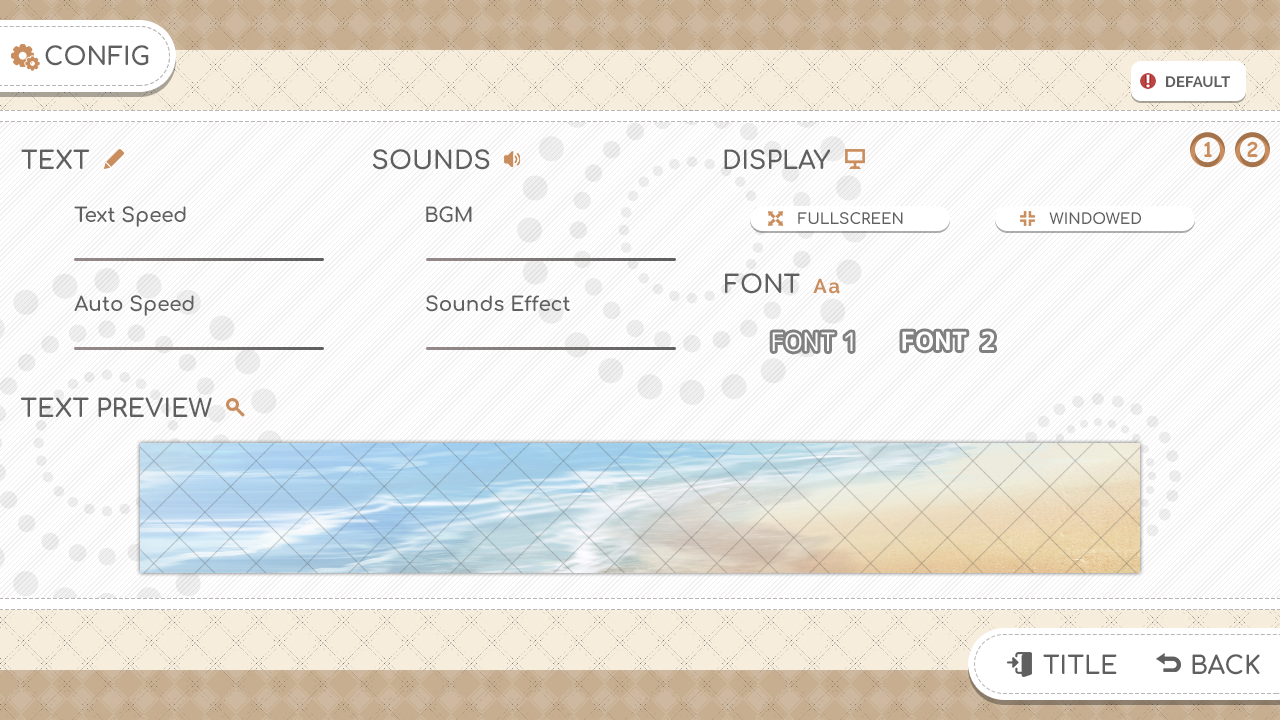
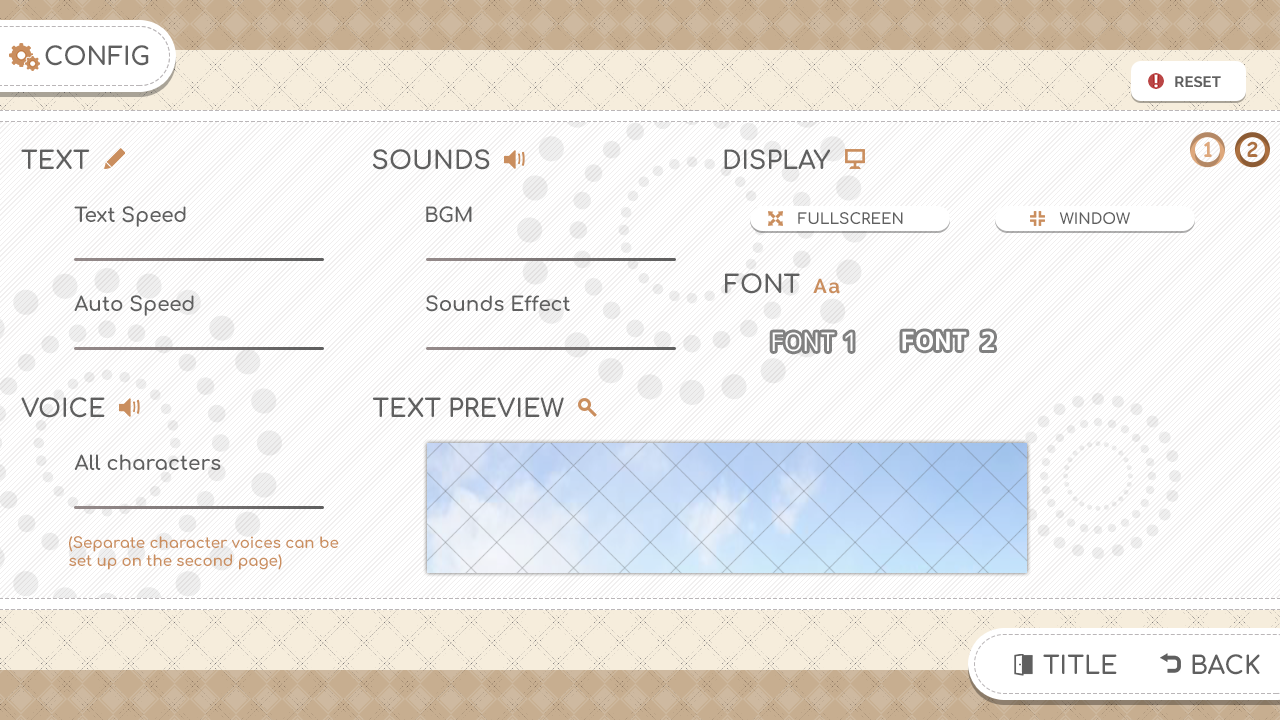
Add per-character volumes

diff --git a/readme-jp.html b/readme-jp.html
@@ -43,7 +43,7 @@
 </head>
 <body>
 
-<h1>Suika 2.10.3</h1>
+<h1>Suika 2.10.5</h1>
 <p>Copyright (C) 2001-2022 LUXION SOFT. All rights reserved.</p>
 
 <h2>このソフトについて</h2>
@@ -89,7 +89,6 @@
   <li>活発に開発していますので、何でも連絡してくださるとうれしいです</li>
   <li>メール <a href="mailto:tabata@luxion.jp">tabata@luxion.jp</a> (Gmailから返信しますのでご承知おきください)</li>
   <li>Webサイト <a href="https://suika2.com/">https://suika2.com/</a></li>
-  <li>掲示板 <a href="https://luxion.jp/f/f/suika2-keijiban/">https://luxion.jp/f/f/suika2-keijiban/</a></li>
 </ul>
 
 <h2>インストール/アンインストール</h2>
@@ -168,6 +167,16 @@
 
 <h2>変更履歴</h2>
 <ul>
+  <li>Suika 2.10.5 2022/8/5
+    <ul>
+			<li>Macで画面が赤くちらつく問題を修正 (Thanks to Kyo)</li>
+		</ul>
+  </li>
+  <li>Suika 2.10.4 2022/8/3
+    <ul>
+			<li>クラッシュするバグを修正 (Thanks to Kyo, MaiMai-san)</li>
+		</ul>
+  </li>
   <li>Suika 2.10.3 2022/7/31
     <ul>
 			<li>クイックロードのバグを修正 (Thanks to Max)</li>

diff --git a/readme-en.html b/readme-en.html
@@ -42,7 +42,7 @@
 </head>
 <body>
 
-<h1>Suika 2.10.3</h1>
+<h1>Suika 2.10.5</h1>
 <p>Copyright (C) 2001-2022 LUXION SOFT. All rights reserved.</p>
 
 <h2>About Suika2</h2>
@@ -149,6 +149,16 @@ You can enjoy producing impressive visual novels using Suika2.
 
 <h2>Release History</h2>
 <ul>
+  <li>Suika 2.10.5 5th August 2022
+    <ul>
+			<li>Fix red flicker on Mac (Thanks to Kyo)</li>
+		</ul>
+  </li>
+  <li>Suika 2.10.4 3rd August 2022
+    <ul>
+			<li>Fix crash (Thanks to Kyo, MaiMai-san)</li>
+		</ul>
+  </li>
   <li>Suika 2.10.3 31th July 2022
     <ul>
 			<li>Fix quick load bug (Thanks to Max)</li>

diff --git a/build/web-kit/readme-en.html b/build/web-kit/readme-en.html
@@ -44,7 +44,7 @@
 <body>
 
 <h1>Suika2 for Web Browsers Distribution Kit</h1>
-<p>Rev.40 (Supports Suika 2.10.2)</p>
+<p>Rev.43 (Supports Suika 2.10.5)</p>
 <p>Copyright (C) 2001-2022 LUXION SOFT. All rights reserved.</p>
 
 <h2>About this kit</h2>
@@ -103,6 +103,16 @@
 
 <h2>Revisions</h2>
 <ul>
+  <li>Rev.43 5th August 2022
+    <ul>
+      <li>Support Suika 2.10.5</li>
+    </ul>
+  </li>
+  <li>Rev.42 3rd August 2022
+    <ul>
+      <li>Support Suika 2.10.4</li>
+    </ul>
+  </li>
   <li>Rev.41 31th July 2022
     <ul>
       <li>Support Suika 2.10.3</li>

diff --git a/build/web-kit/readme-jp.html b/build/web-kit/readme-jp.html
@@ -44,7 +44,7 @@
 <body>
 
 <h1>Suika2 Webブラウザ版 配布キット</h1>
-<p>Rev.40 (Suika 2.10.2対応)</p>
+<p>Rev.43 (Suika 2.10.5対応)</p>
 <p>Copyright (C) 2001-2022 LUXION SOFT. All rights reserved.</p>
 
 <h2>このキットについて</h2>
@@ -100,6 +100,16 @@
 
 <h2>変更履歴</h2>
 <ul>
+  <li>Rev.43 2022/8/5
+    <ul>
+      <li>Suika 2.10.5に対応</li>
+    </ul>
+  </li>
+  <li>Rev.42 2022/8/3
+    <ul>
+      <li>Suika 2.10.4に対応</li>
+    </ul>
+  </li>
   <li>Rev.41 2022/7/31
     <ul>
       <li>Suika 2.10.3に対応</li>

diff --git a/src/cmd_message.c b/src/cmd_message.c
@@ -24,39 +24,42 @@
 #define ASSERT_INVALID_BTN_INDEX (0)
 
 /* Unicodeコードポイント */
-#define CHAR_SPACE	(0x0020)
-#define CHAR_COMMA 	(0x002c)
-#define CHAR_PERIOD	(0x002e)
-#define CHAR_COLON	(0x003a)
-#define CHAR_SEMICOLON  (0x003b)
-#define CHAR_TOUTEN	(0x3001)
-#define CHAR_KUTEN	(0x3002)
-#define CHAR_BACKSLASH	(0x005c)
-#define CHAR_YENSIGN	(0x00a5)
-#define CHAR_SMALLN	(0x006e)
+#define CHAR_SPACE		(0x0020)
+#define CHAR_COMMA 		(0x002c)
+#define CHAR_PERIOD		(0x002e)
+#define CHAR_COLON		(0x003a)
+#define CHAR_SEMICOLON  	(0x003b)
+#define CHAR_TOUTEN		(0x3001)
+#define CHAR_KUTEN		(0x3002)
+#define CHAR_BACKSLASH		(0x005c)
+#define CHAR_YENSIGN		(0x00a5)
+#define CHAR_SMALLN		(0x006e)
 
 /* メッセージボックスボタンのインデックス */
-#define BTN_NONE	(-1)
-#define BTN_QSAVE	(0)
-#define BTN_QLOAD	(1)
-#define BTN_SAVE	(2)
-#define BTN_LOAD	(3)
-#define BTN_AUTO	(4)
-#define BTN_SKIP	(5)
-#define BTN_HISTORY	(6)
-#define BTN_CONFIG	(7)
-#define BTN_HIDE	(8)
+#define BTN_NONE		(-1)
+#define BTN_QSAVE		(0)
+#define BTN_QLOAD		(1)
+#define BTN_SAVE		(2)
+#define BTN_LOAD		(3)
+#define BTN_AUTO		(4)
+#define BTN_SKIP		(5)
+#define BTN_HISTORY		(6)
+#define BTN_CONFIG		(7)
+#define BTN_HIDE		(8)
 
 /* システムメニューのボタンのインデックス */
-#define SYSMENU_NONE	(-1)
-#define SYSMENU_QSAVE	(0)
-#define SYSMENU_QLOAD	(1)
-#define SYSMENU_SAVE	(2)
-#define SYSMENU_LOAD	(3)
-#define SYSMENU_AUTO	(4)
-#define SYSMENU_SKIP	(5)
-#define SYSMENU_HISTORY	(6)
-#define SYSMENU_CONFIG	(7)
+#define SYSMENU_NONE		(-1)
+#define SYSMENU_QSAVE		(0)
+#define SYSMENU_QLOAD		(1)
+#define SYSMENU_SAVE		(2)
+#define SYSMENU_LOAD		(3)
+#define SYSMENU_AUTO		(4)
+#define SYSMENU_SKIP		(5)
+#define SYSMENU_HISTORY		(6)
+#define SYSMENU_CONFIG		(7)
+
+/* コンフィグのGUIファイル */
+#define CONFIG_GUI_FILE		"system.txt"
 
 /* オートモードでボイスありのとき待ち時間 */
 #define AUTO_MODE_VOICE_WAIT		(4000)
@@ -302,7 +305,7 @@ bool message_command(int *x, int *y, int *w, int *h)
 	if (need_history_mode)
 		start_history_mode();
 	if (need_config_mode) {
-		if (!prepare_gui_mode(NULL, true))
+		if (!prepare_gui_mode(CONFIG_GUI_FILE, true, true))
 			return false;
 		start_gui_mode();
 	}
@@ -508,7 +511,8 @@ static bool process_serif_command(int *x, int *y, int *w, int *h)
 	/* ボイスを再生する */
 	if ((is_non_interruptible() &&
 	     (!history_flag &&
-	      (!restore_flag || !config_flag || !is_message_registered())))
+	      !config_flag &&
+	      (!restore_flag || !is_message_registered())))
 	    ||
 	    (!is_non_interruptible() &&
 	     !(is_skip_mode() && is_skippable()) &&

diff --git a/src/gui.c b/src/gui.c
@@ -18,9 +18,6 @@
 
 #include "suika.h"
 
-/* デフォルトのGUIファイル */
-#define DEFAULT_FILE	"system.txt"
-
 /* ボタンの最大数 */
 #define BUTTON_COUNT	(128)
 
@@ -281,24 +278,16 @@ bool check_gui_flag(void)
 /*
  * GUIを準備する
  */
-bool prepare_gui_mode(const char *file, bool cancel)
+bool prepare_gui_mode(const char *file, bool cancel, bool from_command)
 {
 	assert(!flag_gui_mode);
 
 	/* ボタンをゼロクリアする */
 	memset(button, 0, sizeof(button));
 
-	/* GUI定義ファイルが指定されていない場合 */
-	if (file == NULL) {
-		/* メッセージかスイッチで右クリックされたと判断する */
-		is_called_from_command = file == NULL;
-
-		/* デフォルトのファイルを使う */
-		gui_file = DEFAULT_FILE;
-	} else {
-		/* 指定されたファイルを使う */
-		gui_file = file;
-	}
+	/* プロパティを保存する */
+	gui_file = file;
+	is_called_from_command = from_command;
 
 	/* GUIファイルを開く */
 	if (!load_gui_file(gui_file)) {
@@ -640,6 +629,9 @@ bool run_gui_mode(int *x, int *y, int *w, int *h)
 static bool move_to_other_gui(void)
 {
 	char *file;
+	bool from_command;
+
+	from_command = is_called_from_command;
 
 	/* ファイル名をコピーする(cleanup_gui()によって参照不能となるため) */
 	file = strdup(button[result_index].file);
@@ -656,7 +648,7 @@ static bool move_to_other_gui(void)
 	cleanup_gui();
 
 	/* GUIをロードする */
-	if (!prepare_gui_mode(file, cancel_when_right_click)) {
+	if (!prepare_gui_mode(file, cancel_when_right_click, from_command)) {
 		free(file);
 		return false;
 	}

diff --git a/src/nsmain.m b/src/nsmain.m
@@ -73,6 +73,9 @@ BOOL isFinished;
 // コントロールキーが押下されているか
 BOOL isControlPressed;
 
+// 描画の準備ができているか
+BOOL isRedrawPrepared;
+
 // ビューが作成されるときに呼び出される
 - (id)initWithFrame:(NSRect)frame {
     // メニューのタイトルを変更する https://stackoverflow.com/questions/4965466/set-titles-of-items-in-my-apps-main-menu
@@ -104,6 +107,13 @@ BOOL isControlPressed;
     // VSYNC待ちを有効にする
     // GLint vsync = GL_TRUE;
     // [[self openGLContext] setValues:&vsync forParameter:NSOpenGLCPSwapInterval];
+
+    // 初回描画におけるちらつきを抑える
+    // (これがないとAMD Radeonでは一瞬赤になる)
+    if (conf_window_white)
+        glClearColor(1.0f, 1.0f, 1.0f, 1.0f);
+    else
+        glClearColor(0.0f, 0.0f, 0.0f, 1.0f);
 
     // スクリーン拡大率を設定する
     screenScale = 1.0f;
@@ -160,6 +170,8 @@ BOOL isControlPressed;
     // OpenGLの描画を終了する
     opengl_end_rendering();
 
+    isRedrawPrepared = YES;
+
     // drawRectの呼び出しを予約する
     [self setNeedsDisplay:YES];
 }
@@ -170,8 +182,12 @@ BOOL isControlPressed;
 
     if (isFinished)
         return;
-
+    if (!isRedrawPrepared)
+        return;
+        
     [[self openGLContext] flushBuffer];
+
+    isRedrawPrepared = NO;
 }
 
 // マウス押下イベント

diff --git a/src/gui.h b/src/gui.h
@@ -27,7 +27,7 @@ void cleanup_gui(void);
 bool check_gui_flag(void);
 
 /* GUIを準備する */
-bool prepare_gui_mode(const char *file, bool cancel);
+bool prepare_gui_mode(const char *file, bool cancel, bool from_command);
 
 /* GUIを開始する */
 void start_gui_mode(void);

diff --git a/src/cmd_gui.c b/src/cmd_gui.c
@@ -61,7 +61,7 @@ static bool init(void)
 		cancel = false;
 
 	/* GUIファイルと指定された画像の読み込みを行う */
-	if (!prepare_gui_mode(file, cancel)) {
+	if (!prepare_gui_mode(file, cancel, false)) {
 		log_script_exec_footer();
 		return false;
 	}

diff --git a/src/cmd_switch.c b/src/cmd_switch.c
@@ -195,7 +195,7 @@ bool switch_command(int *x, int *y, int *w, int *h)
 	if (need_history_mode)
 		start_history_mode();
 	if (need_config_mode) {
-		if (!prepare_gui_mode(NULL, true))
+		if (!prepare_gui_mode(NULL, true, true))
 			return false;
 		start_gui_mode();
 	}
